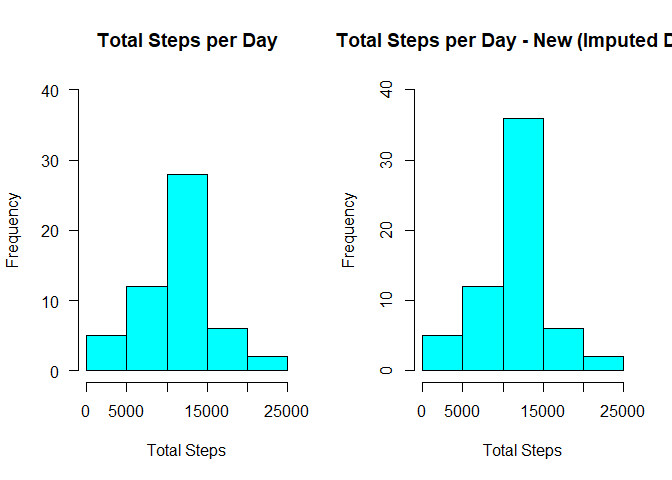
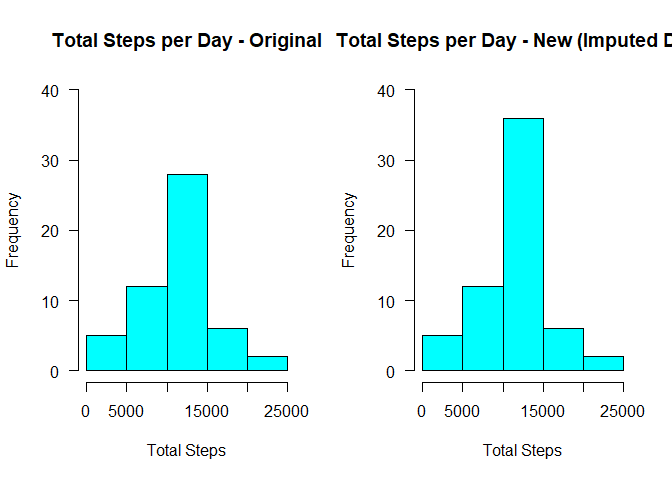
Final Submission

diff --git a/PA1_template.html b/PA1_template.html
@@ -304,9 +304,9 @@ print(NAreport)</code></pre>
 
 par(mfrow=c(1,2))
 
-hist(stepsdatetotal$steps, col=&quot;cyan&quot;, ylim=c(0, 40),las=1,main = &quot;Total Steps per Day&quot;, xlab = &quot;Total Steps&quot;, breaks = 7)
-hist(stepsdatetotalnew$steps, col=&quot;cyan&quot;, ylim=c(0, 40),main = &quot;Total Steps per Day - New (Imputed Data)&quot;, xlab = &quot;Total Steps&quot;, breaks = 7)</code></pre>
[1 lines of base64/hex data omitted]
+hist(stepsdatetotal$steps, col=&quot;cyan&quot;, ylim=c(0, 40),las=1,main = &quot;Total Steps per Day - Original&quot;, xlab = &quot;Total Steps&quot;, breaks = 7)
+hist(stepsdatetotalnew$steps, col=&quot;cyan&quot;, ylim=c(0, 40),las=1,main = &quot;Total Steps per Day - New (Imputed Data)&quot;, xlab = &quot;Total Steps&quot;, breaks = 7)</code></pre>
[1 lines of base64/hex data omitted]
 <p>Calculate Mean and Median</p>
 <pre class="r"><code>stepsreportnew &lt;- data.frame(mean(stepsdatetotalnew$steps),median(stepsdatetotalnew$steps))
 colnames(stepsreportnew)[1] &lt;- &quot;stepsreportmean&quot;

diff --git a/PA1_template.md b/PA1_template.md
@@ -284,8 +284,8 @@ stepsdatetotalnew <- aggregate(steps ~ date, activitynew, sum)
 
 par(mfrow=c(1,2))
 
-hist(stepsdatetotal$steps, col="cyan", ylim=c(0, 40),las=1,main = "Total Steps per Day", xlab = "Total Steps", breaks = 7)
-hist(stepsdatetotalnew$steps, col="cyan", ylim=c(0, 40),main = "Total Steps per Day - New (Imputed Data)", xlab = "Total Steps", breaks = 7)
+hist(stepsdatetotal$steps, col="cyan", ylim=c(0, 40),las=1,main = "Total Steps per Day - Original", xlab = "Total Steps", breaks = 7)
+hist(stepsdatetotalnew$steps, col="cyan", ylim=c(0, 40),las=1,main = "Total Steps per Day - New (Imputed Data)", xlab = "Total Steps", breaks = 7)
 ```
 
 ![](PA1_template_files/figure-html/stepsdatetotalnewcalc-1.png)<!-- -->
